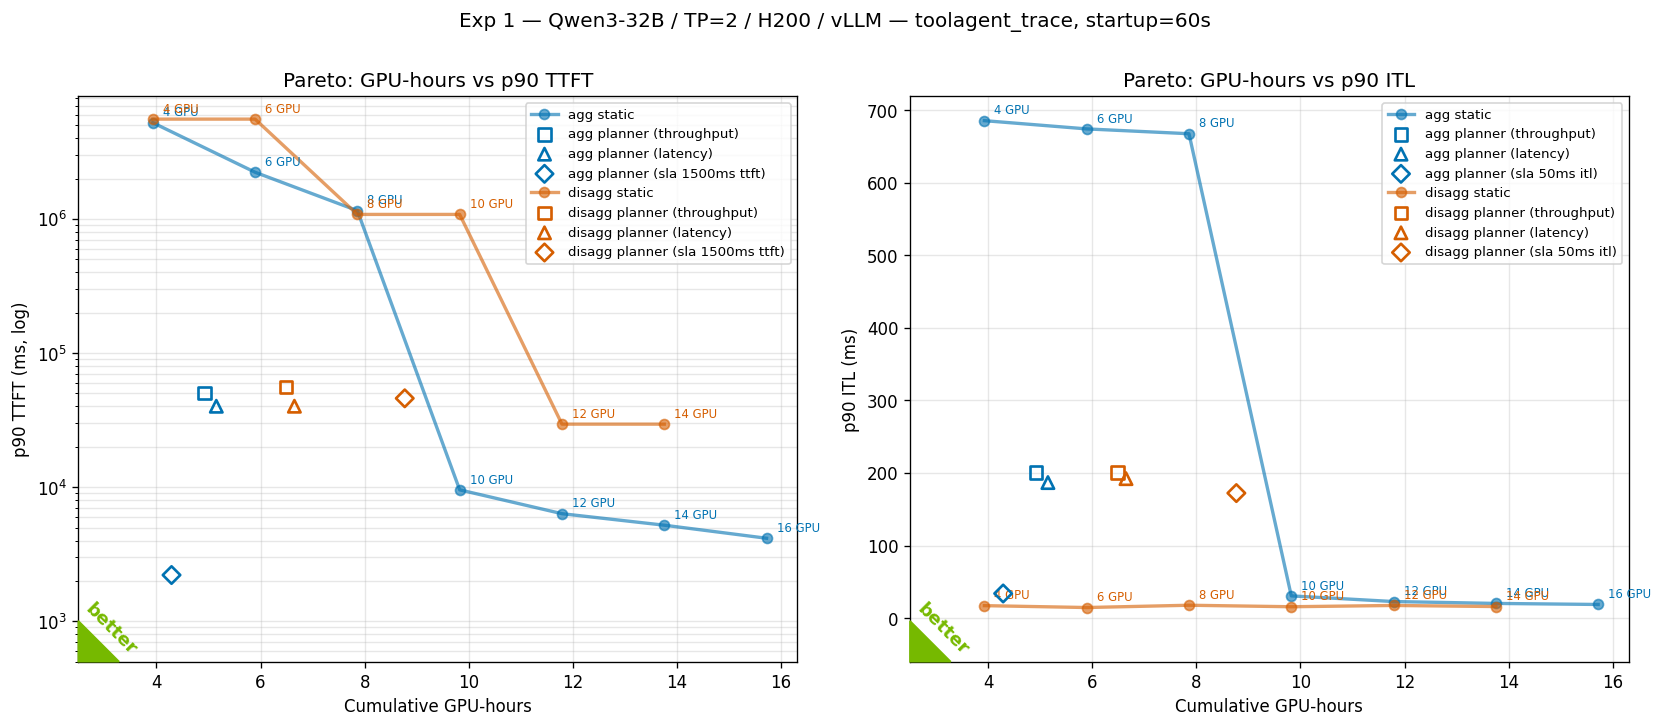
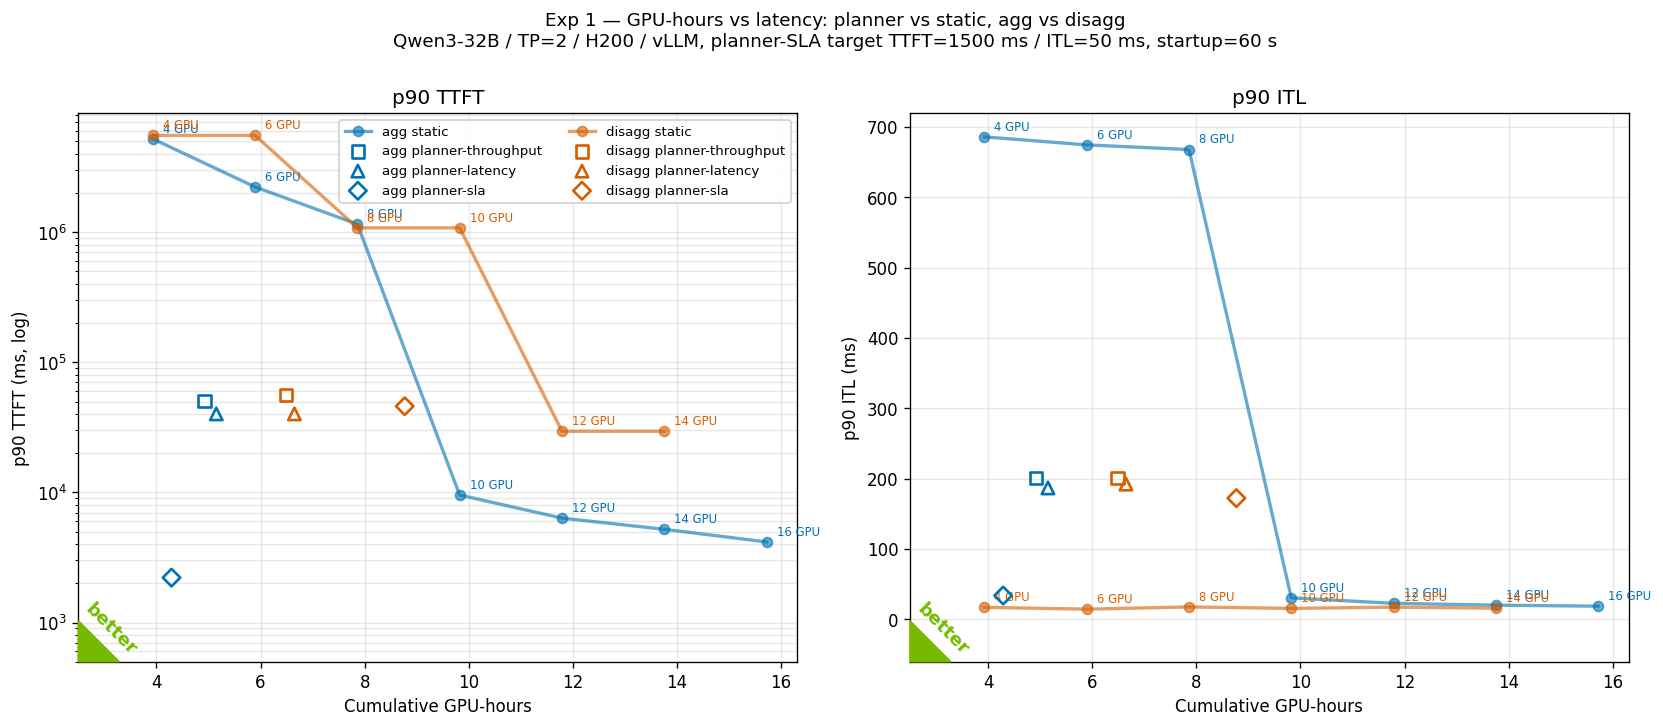
docs(blog): tighten digital twin planner figures and framing (review pass) (#9436)

Pull request: docs(blog): tighten digital twin planner figures and framing (review pass)
## Summary

Addresses @user's review comment on the planner subsection of the digital twin blog.

- **Framing**: motivates why autoscaling is a natural twin use case — macro behavior that needs minutes of traffic and feedback between scale decisions, queues, and routing to surface, versus an expensive per-policy-change Kubernetes validation loop.
- **Exp 1 (setup tradeoffs)**: kept both TTFT and ITL panels (the two-SLA-dimension story matters), but simplified the legend: shorter \`planner-<target>\` labels, single shared 2-column legend on the TTFT panel only, panel titles trimmed to \`p90 TTFT\` / \`p90 ITL\`.
- **Exp 2 (load interval)**: collapsed the four-panel figure to a single **p90 TTFT vs load_adjustment_interval** plot with a TTFT SLA line, a highlighted **5–10 s sweet-spot band**, and per-point scaling-event-count annotations. ITL / GPU-hours / oscillation totals moved into the README text.
- **Exp 3 (cold start)**: collapsed the four-panel figure to a single **p90 TTFT vs startup_time** plot with a TTFT SLA line and a **~200 s cliff marker**. GPU-hours and scaling-event totals moved into the README text.

Branched off latest \`rupei/digital-twin-simulation-draft\`.

## Test plan

- [ ] Render preview the blog — verify the three new images render correctly and the planner section reads cleanly
- [ ] Confirm the framing paragraph hits the points from the review (macro behavior, k8s-validation expense, the three concrete sub-questions)
[…]

diff --git a/docs/blogs/digital-twin-simulation/scripts/planner_exp_2/plot.py b/docs/blogs/digital-twin-simulation/scripts/planner_exp_2/plot.py
@@ -1,6 +1,11 @@
 # SPDX-FileCopyrightText: Copyright (c) 2026 NVIDIA CORPORATION & AFFILIATES. All rights reserved.
 # SPDX-License-Identifier: Apache-2.0
-"""Plot Exp 2 results: latency / oscillation / cost vs load_adjustment_interval."""
+"""Plot Exp 2 results: p90 TTFT vs load_adjustment_interval.
+
+Single-panel focus on the headline metric (p90 TTFT). Secondary metrics
+(ITL, scaling-event count, GPU-hours) are reported in the blog text
+rather than the figure to keep the visual lean.
+"""
 
 from __future__ import annotations
 
@@ -16,7 +21,10 @@ sys.path.insert(0, str(_HERE.parent))
 from common import image_path, results_json_path  # noqa: E402
 
 EXP_NAME = "planner_exp_2"
-GRAY = "#8C8C8C"
+NV_GREEN = "#76B900"
+SLA_GRAY = "#8C8C8C"
+SWEET_LO_S = 5
+SWEET_HI_S = 10
 
 
 def load() -> list[dict]:
@@ -28,59 +36,65 @@ def load() -> list[dict]:
 def main() -> None:
     rows = load()
     xs = [r["params"]["load_adjustment_interval_s"] for r in rows]
-    ttft_avg = [(r["ttft_ms"] or {}).get("avg") for r in rows]
     ttft_p90 = [(r["ttft_ms"] or {}).get("p90") for r in rows]
-    itl_avg = [(r["itl_ms"] or {}).get("avg") for r in rows]
-    itl_p90 = [(r["itl_ms"] or {}).get("p90") for r in rows]
     events = [r["scale_up_events"] + r["scale_down_events"] for r in rows]
-    gpu_h = [r["gpu_hours"] for r in rows]
 
-    fig, axes = plt.subplots(2, 2, figsize=(13, 9))
+    fig, ax = plt.subplots(figsize=(9, 5.5))
 
-    ax = axes[0, 0]
-    ax.plot(xs, ttft_avg, "o-", label="avg")
-    ax.plot(xs, ttft_p90, "s-", label="p90")
-    ax.axhline(1500, ls="--", color=GRAY, alpha=0.6, label="SLA 1500ms")
+    # Highlight the 5–10 s sweet spot as a soft green band behind the curve.
+    ax.axvspan(SWEET_LO_S, SWEET_HI_S, alpha=0.15, color=NV_GREEN, zorder=0)
+    ax.text(
+        (SWEET_LO_S * SWEET_HI_S) ** 0.5,  # geometric midpoint on log axis
+        0.97,
+        "5–10 s sweet spot",
+        transform=ax.get_xaxis_transform(),
+        ha="center",
+        va="top",
+        fontsize=10,
+        fontweight="bold",
+        color=NV_GREEN,
+    )
+
+    # SLA reference line.
+    ax.axhline(1500, ls="--", color=SLA_GRAY, alpha=0.8, label="TTFT SLA 1500 ms")
+
+    # Main curve.
+    ax.plot(
+        xs,
+        ttft_p90,
+        "o-",
+        color="#0072B2",
+        lw=2,
+        markersize=7,
+        label="p90 TTFT",
+        zorder=3,
+    )
+
+    # Annotate each point with its scaling-event count so the cost
+    # of oscillation stays visible in the figure as well as the text.
+    for x, y, n in zip(xs, ttft_p90, events):
+        ax.annotate(
+            f"{n} events",
+            (x, y),
+            textcoords="offset points",
+            xytext=(0, 9),
+            fontsize=7,
+            ha="center",
+            color="#444444",
+        )
+
     ax.set_xscale("log")
     ax.set_yscale("log")
     ax.set_xlabel("load_adjustment_interval (s, log)")
-    ax.set_ylabel("TTFT (ms, log)")
-    ax.set_title("TTFT vs interval")
-    ax.grid(True, which="both", alpha=0.3)
-    ax.legend()
-
-    ax = axes[0, 1]
-    ax.plot(xs, itl_avg, "o-", label="avg")
-    ax.plot(xs, itl_p90, "s-", label="p90")
-    ax.axhline(50, ls="--", color=GRAY, alpha=0.6, label="SLA 50ms")
-    ax.set_xscale("log")
-    ax.set_xlabel("load_adjustment_interval (s, log)")
-    ax.set_ylabel("ITL (ms)")
-    ax.set_title("ITL vs interval")
-    ax.grid(True, which="both", alpha=0.3)
-    ax.legend()
-
-    ax = axes[1, 0]
-    ax.plot(xs, events, "o-", color="C3")
-    ax.set_xscale("log")
-    ax.set_xlabel("load_adjustment_interval (s, log)")
-    ax.set_ylabel("scale_up + scale_down events")
-    ax.set_title("Oscillation vs interval")
-    ax.grid(True, which="both", alpha=0.3)
-
-    ax = axes[1, 1]
-    ax.plot(xs, gpu_h, "o-", color="C2")
-    ax.set_xscale("log")
-    ax.set_xlabel("load_adjustment_interval (s, log)")
-    ax.set_ylabel("Cumulative GPU-hours")
-    ax.set_title("GPU-hours vs interval")
-    ax.grid(True, which="both", alpha=0.3)
-
-    fig.suptitle(
-        "Exp 2 — Qwen3-32B / TP=2 / H200 / vLLM — toolagent_trace, "
-        "load-only planner, startup_time=0",
-        y=1.0,
+    ax.set_ylabel("p90 TTFT (ms, log)")
+    ax.set_title(
+        "Exp 2 — p90 TTFT vs load_adjustment_interval\n"
+        "Qwen3-32B / TP=2 / H200 / vLLM, load-only planner, startup_time=0",
+        fontsize=11,
     )
+    ax.grid(True, which="both", alpha=0.3)
+    ax.legend(loc="upper left")
+
     plt.tight_layout()
     out = image_path(EXP_NAME)
     out.parent.mkdir(parents=True, exist_ok=True)

diff --git a/docs/blogs/digital-twin-simulation/scripts/planner_exp_3/plot.py b/docs/blogs/digital-twin-simulation/scripts/planner_exp_3/plot.py
@@ -1,6 +1,11 @@
 # SPDX-FileCopyrightText: Copyright (c) 2026 NVIDIA CORPORATION & AFFILIATES. All rights reserved.
 # SPDX-License-Identifier: Apache-2.0
-"""Plot Exp 3 results: TTFT/ITL/GPU-hours/scaling-events vs engine startup time."""
+"""Plot Exp 3 results: p90 TTFT vs engine startup_time.
+
+Single-panel focus on the headline metric (p90 TTFT) with the SLA line
+and the startup-delay cliff annotated. GPU-hours and scaling-event
+counts are reported in the blog text rather than the figure.
+"""
 
 from __future__ import annotations
 
@@ -16,7 +21,9 @@ sys.path.insert(0, str(_HERE.parent))
 from common import image_path, results_json_path  # noqa: E402
 
 EXP_NAME = "planner_exp_3"
-GRAY = "#8C8C8C"
+SLA_GRAY = "#8C8C8C"
+CLIFF_RED = "#C8102E"
+CLIFF_S = 200  # approximate startup_time at which p90 TTFT diverges
 
 
 def load() -> list[dict]:
@@ -28,58 +35,50 @@ def load() -> list[dict]:
 def main() -> None:
     rows = load()
     xs = [r["params"]["startup_time_s"] for r in rows]
-    ttft_avg = [(r["ttft_ms"] or {}).get("avg") for r in rows]
     ttft_p90 = [(r["ttft_ms"] or {}).get("p90") for r in rows]
-    itl_avg = [(r["itl_ms"] or {}).get("avg") for r in rows]
-    itl_p90 = [(r["itl_ms"] or {}).get("p90") for r in rows]
-    gpu_h = [r["gpu_hours"] for r in rows]
-    n_up = [r["scale_up_events"] for r in rows]
-    n_down = [r["scale_down_events"] for r in rows]
 
-    fig, axes = plt.subplots(2, 2, figsize=(13, 9))
+    fig, ax = plt.subplots(figsize=(9, 5.5))
 
-    ax = axes[0, 0]
-    ax.plot(xs, ttft_avg, "o-", label="avg")
-    ax.plot(xs, ttft_p90, "s-", label="p90")
-    ax.axhline(1500, ls="--", color=GRAY, alpha=0.6, label="SLA 1500ms")
+    # SLA reference line.
+    ax.axhline(1500, ls="--", color=SLA_GRAY, alpha=0.8, label="TTFT SLA 1500 ms")
+
+    # Cliff marker — a thin vertical line + label at the empirical breaking point.
+    ax.axvline(CLIFF_S, ls=":", color=CLIFF_RED, alpha=0.8, lw=1.5)
+    ax.text(
+        CLIFF_S - 5,
+        0.97,
+        f"SLA cliff ≈ {CLIFF_S} s",
+        transform=ax.get_xaxis_transform(),
+        ha="right",
+        va="top",
+        fontsize=10,
+        fontweight="bold",
+        color=CLIFF_RED,
+    )
+
+    # Main curve.
+    ax.plot(
+        xs,
+        ttft_p90,
+        "o-",
+        color="#0072B2",
+        lw=2,
+        markersize=7,
+        label="p90 TTFT",
+        zorder=3,
+    )
+
     ax.set_yscale("log")
     ax.set_xlabel("Engine startup_time (s)")
-    ax.set_ylabel("TTFT (ms, log)")
-    ax.set_title("TTFT vs engine startup time")
-    ax.grid(True, which="both", alpha=0.3)
-    ax.legend()
-
-    ax = axes[0, 1]
-    ax.plot(xs, itl_avg, "o-", label="avg")
-    ax.plot(xs, itl_p90, "s-", label="p90")
-    ax.axhline(50, ls="--", color=GRAY, alpha=0.6, label="SLA 50ms")
-    ax.set_xlabel("Engine startup_time (s)")
-    ax.set_ylabel("ITL (ms)")
-    ax.set_title("ITL vs engine startup time")
-    ax.grid(True, alpha=0.3)
-    ax.legend()
-
-    ax = axes[1, 0]
-    ax.plot(xs, gpu_h, "o-", color="C2")
-    ax.set_xlabel("Engine startup_time (s)")
-    ax.set_ylabel("Cumulative GPU-hours")
-    ax.set_title("GPU-hours vs engine startup time")
-    ax.grid(True, alpha=0.3)
-
-    ax = axes[1, 1]
-    ax.plot(xs, n_up, "o-", color="C3", label="scale_up")
-    ax.plot(xs, n_down, "s-", color="C4", label="scale_down")
-    ax.set_xlabel("Engine startup_time (s)")
-    ax.set_ylabel("Event count")
-    ax.set_title("Planner scaling events vs engine startup time")
-    ax.grid(True, alpha=0.3)
-    ax.legend()
-
-    fig.suptitle(
-        "Exp 3 — Qwen3-32B / TP=2 / H200 / vLLM — toolagent_trace, "
-        "agg planner SLA(ttft=1500, itl=50)",
-        y=1.0,
+    ax.set_ylabel("p90 TTFT (ms, log)")
+    ax.set_title(
+        "Exp 3 — p90 TTFT vs engine startup_time\n"
+        "Qwen3-32B / TP=2 / H200 / vLLM, agg planner SLA(ttft=1500, itl=50)",
+        fontsize=11,
     )
+    ax.grid(True, which="both", alpha=0.3)
+    ax.legend(loc="upper left")
+
     plt.tight_layout()
     out = image_path(EXP_NAME)
     out.parent.mkdir(parents=True, exist_ok=True)

diff --git a/docs/blogs/digital-twin-simulation/scripts/planner_exp_1/plot.py b/docs/blogs/digital-twin-simulation/scripts/planner_exp_1/plot.py
@@ -84,14 +84,7 @@ def main() -> None:
                 pts = by_kind.get((mode, target), [])
                 if not pts:
                     continue
-                if target == "sla":
-                    label = (
-                        f"{mode} planner (sla 1500ms ttft)"
-                        if metric == "ttft_ms"
-                        else f"{mode} planner (sla 50ms itl)"
-                    )
-                else:
-                    label = f"{mode} planner ({target})"
+                label = f"{mode} planner-{target}"
                 marker = TARGET_MARKERS[target]
                 xs = [r["gpu_hours"] for r in pts]
                 ys = [(r[metric] or {}).get("p90") for r in pts]
@@ -118,13 +111,13 @@ def main() -> None:
 
     draw_pareto(ax_ttft, "ttft_ms", log_y=True)
     ax_ttft.set_ylabel("p90 TTFT (ms, log)")
-    ax_ttft.set_title("Pareto: GPU-hours vs p90 TTFT")
-    ax_ttft.legend(loc="best", fontsize=8)
+    ax_ttft.set_title("p90 TTFT")
+    # Single shared legend on the first panel only; two columns to keep it compact.
+    ax_ttft.legend(loc="upper right", fontsize=8, ncol=2, framealpha=0.9)
 
     draw_pareto(ax_itl, "itl_ms", log_y=False)
     ax_itl.set_ylabel("p90 ITL (ms)")
-    ax_itl.set_title("Pareto: GPU-hours vs p90 ITL")
-    ax_itl.legend(loc="best", fontsize=8)
+    ax_itl.set_title("p90 ITL")
 
     # Pull xmin / ymin lower so the lower-left corner has visual headroom
     # for the "better" indicator without overlapping data and annotations.
@@ -134,7 +127,9 @@ def main() -> None:
     ax_itl.set_ylim(bottom=-60)  # linear scale; smallest data point ~15ms
 
     fig.suptitle(
-        "Exp 1 — Qwen3-32B / TP=2 / H200 / vLLM — toolagent_trace, startup=60s",
+        "Exp 1 — GPU-hours vs latency: planner vs static, agg vs disagg\n"
+        "Qwen3-32B / TP=2 / H200 / vLLM, planner-SLA target TTFT=1500 ms / ITL=50 ms, startup=60 s",
+        fontsize=11,
         y=1.0,
     )
     plt.tight_layout()

diff --git a/docs/blogs/digital-twin-simulation/README.md b/docs/blogs/digital-twin-simulation/README.md
@@ -399,14 +399,16 @@ Router discovery examples:
   account for downstream decode pressure.
 
 Here we focus the in-depth discovery example on the Planner, a core, novel, and
-under-exposed Dynamo component.
-
-Planner exposes a family of stateful decisions: when to scale, how aggressively,
-and which optimization target to chase. Their effects compound across minutes of
-traffic, many workers, delayed capacity changes, routing feedback, and engine
-queues. A toy test misses those interactions, while a live Kubernetes-scale
-experiment can be expensive just to evaluate one policy change. The twin lets us
-study those dynamics before paying for the full-scale experiment.
+under-exposed Dynamo component. Autoscaling is a natural twin use case for two
+reasons. First, the interesting behavior is *macro*: it emerges from minutes of
+traffic, delayed worker startup, capacity churn, and feedback between scale
+decisions, queues, and routing — none of which a small unit test can exercise
+faithfully. Second, evaluating it the other way — in a full Kubernetes setup —
+is expensive per policy change, both in GPU-hours and in engineer time. The
+twin lets us aggressively sweep those effects before standing up the full
+environment: compare static vs dynamic setups, tune Planner parameters, and
+quantify how much worker startup time matters before deciding whether faster
+startup, predictive scaling, or pre-warmed capacity is worth the engineering.
 
 The three experiments below reuse the Mooncake FAST25 `toolagent_trace`
 introduced above, but switch the simulated engine profile to Qwen3-32B at TP=2
@@ -436,11 +438,15 @@ instantaneous engine startup isolates the responsiveness-vs-flap tradeoff.
 
 ![Planner experiment 2 — load adjustment interval](images/planner_exp_2.png)
 
-TTFT and ITL plateau between 1 and 10 seconds, while the scaling-event count
-drops from 764 to 116 over the same range — short intervals burn decisions
-without buying latency. Past ~30 s the planner can no longer keep up with
-traffic bursts: p90 TTFT degrades to 49 s at 60 s interval and 249 s at
-300 s. The sweet spot for this trace is around 5–10 s — short enough to
+p90 TTFT is essentially flat between 1 s and 10 s intervals (~3.1–3.6 s),
+while the total number of scaling events drops from **1,529 to 233** over
+the same range — short intervals burn an order of magnitude more decisions
+without buying any latency. Past ~30 s the planner can no longer keep up
+with traffic bursts: p90 TTFT degrades to 47 s at 60 s interval and 249 s
+at 300 s. p90 ITL behaves the same way (well-controlled at short intervals,
+divergent past 30 s). Cumulative GPU-hours stays in a tight band (~3.2–4.0)
+across the whole sweep — the planner doesn't burn extra GPUs at short
+intervals, it just flaps. The sweet spot is **5–10 s**: short enough to
 track load, long enough to avoid pointless flapping.
 
 **Cold-start time and the SLA cliff.** On a real cluster, scale-up is not
@@ -450,12 +456,14 @@ how the planner copes.
 
 ![Planner experiment 3 — engine cold-start time](images/planner_exp_3.png)
 
-For Qwen3-32B at TP=2, the planner holds SLA up to roughly a 200-second
-startup delay. Beyond that, p90 TTFT rises sharply, and at 300 s the system
-runs perpetually backlogged (242 s p90 TTFT). GPU-hours stays nearly flat
-across the sweep — the planner does not over-provision to compensate for
-slow scale-up; it simply falls behind. The scaling-event count drops
-monotonically (42 → 9) as long-startup runs commit to fewer, longer-lived
+For Qwen3-32B at TP=2 the planner holds SLA cleanly up to ~180 s of
+startup delay; the curve bends sharply at the **~200 s cliff** marked on
+the figure, and at 300 s the system runs perpetually backlogged (242 s
+p90 TTFT). Two secondary observations matter: cumulative GPU-hours stays
+nearly flat (~4.1–4.6) across the sweep — the planner does not
+over-provision to compensate for slow scale-up; it simply falls behind. And
+the total scaling-event count drops monotonically from 84 (startup=0 s) to
+18 (startup=300 s) as long-startup runs commit to fewer, longer-lived
 decisions. This is the kind of curve that motivates predictive scaling and
 pre-warmed reserves rather than purely reactive load tracking.
 